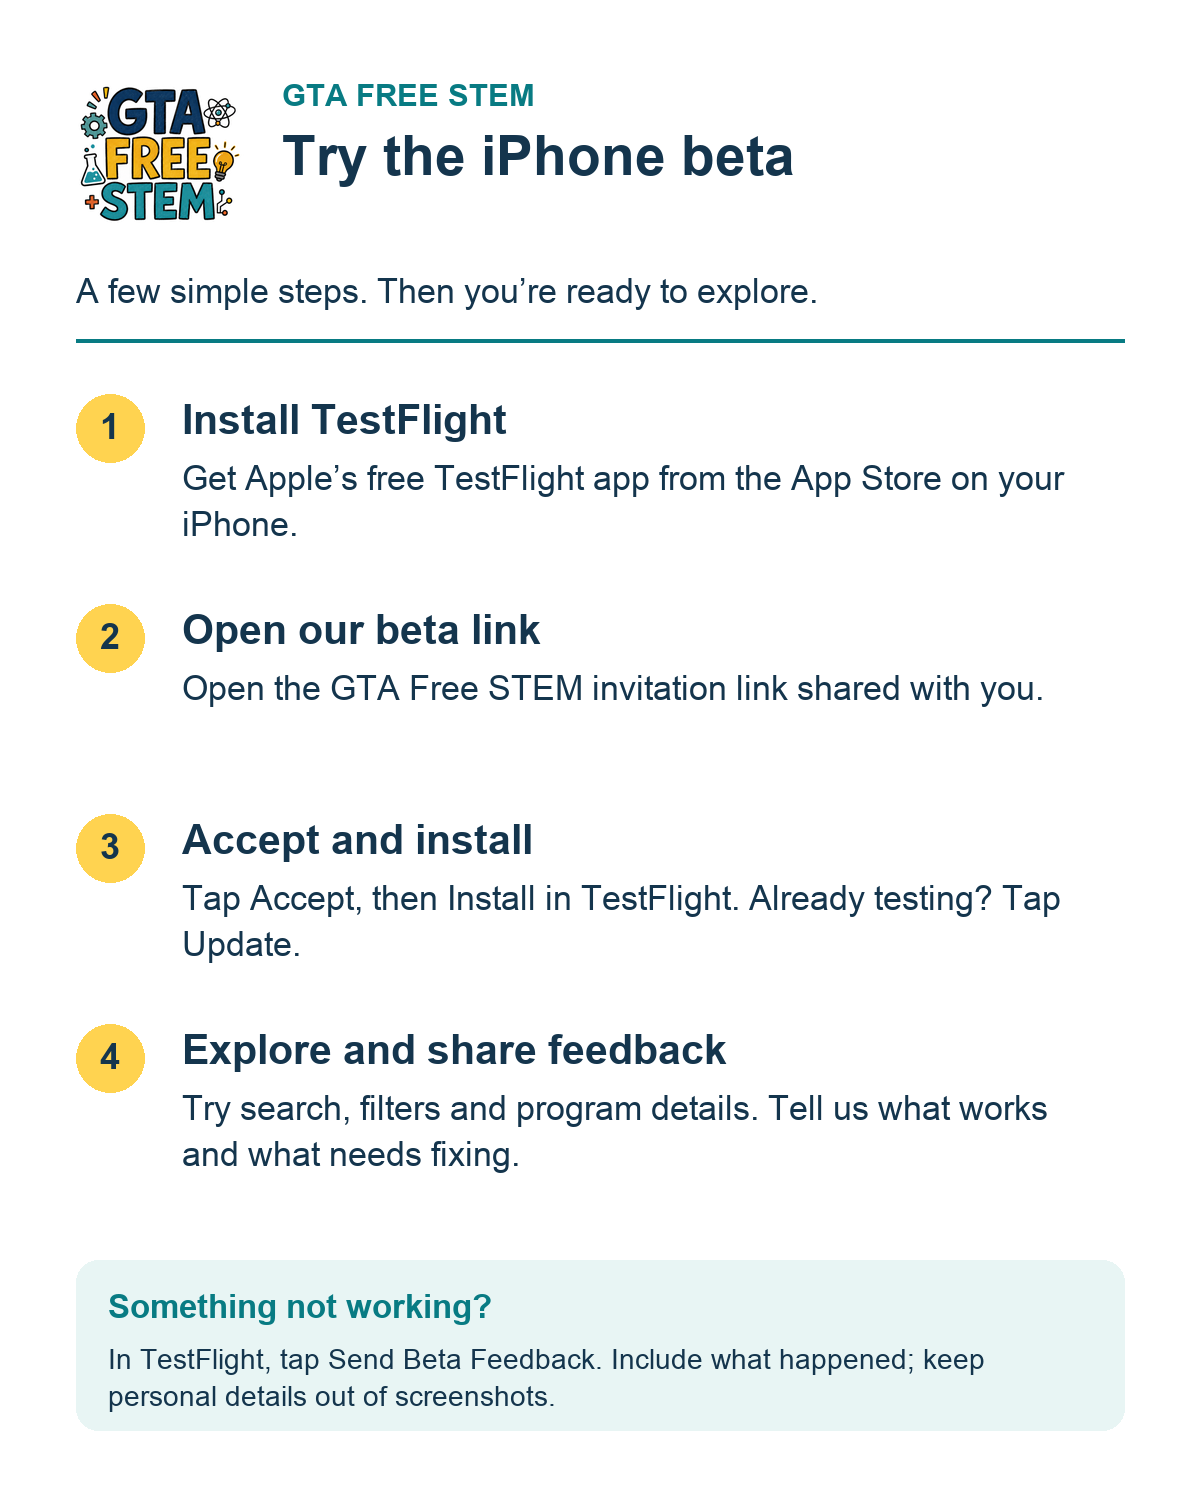
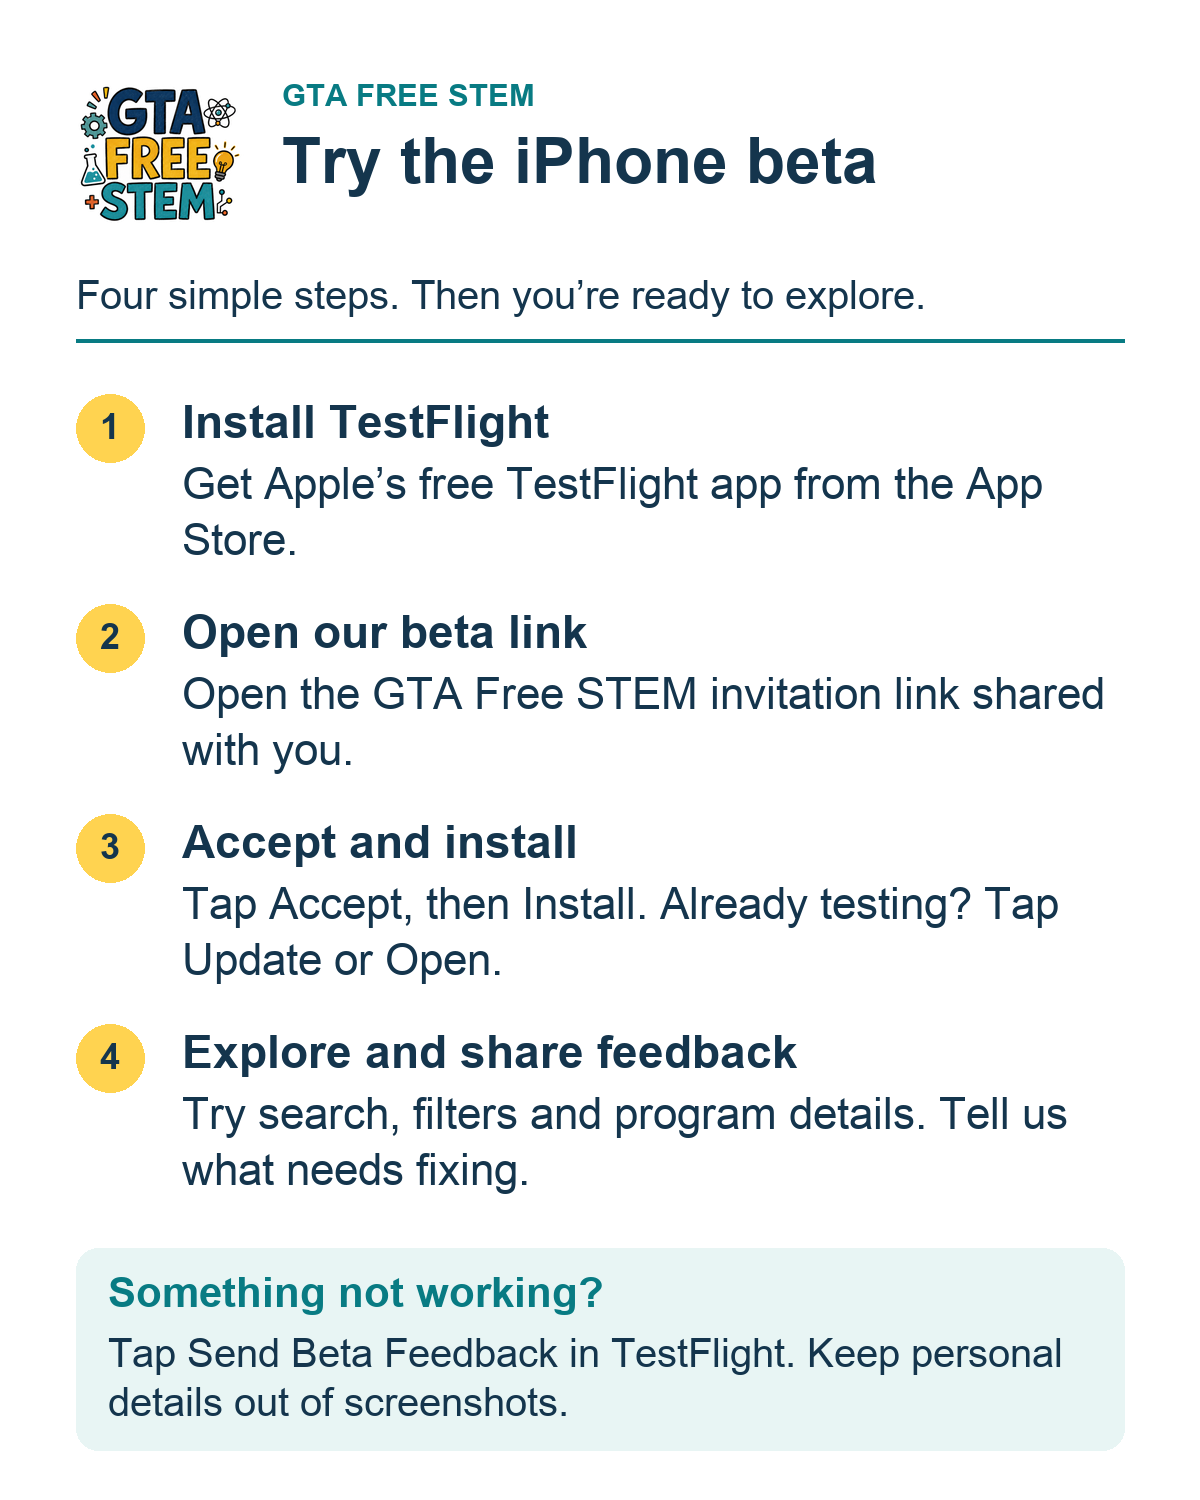
Show Community focus early and improve the phone installation guide
Move the existing three community-focused program filters above saved filters and support options, preserving their values, handlers and translations. Keep advanced school and distance options in More filters. Include the final larger-text universal TestFlight guide. No native listing data or invitation state changes.

diff --git a/components/OpportunityExplorer.tsx b/components/OpportunityExplorer.tsx
@@ -394,6 +394,7 @@ export function OpportunityExplorer({ supportPresetsEnabled = false, language, i
           </form>
         </aside> : <aside id="oe-filters" className={`oe-filters${filterOpen ? " oe-filters-open" : ""}`} aria-label={t(language, "filters")}>
           <div className="oe-filter-heading"><h3>{t(language, "filters")}</h3><button data-science-press type="button" onClick={clearFilters}>{t(language, "clearFilters")}</button></div>
+          <fieldset className="oe-community-filters"><legend>{t(language, "equity")}</legend>{toggles.slice(0, 3).map(([key, label]) => <label key={key} className="oe-check"><input type="checkbox" checked={filters[key]} onChange={(event) => updateFilter(key, event.target.checked)} /><span>{t(language, label)}</span></label>)}</fieldset>
           {supportPresetsEnabled ? <><ScopedSavedFilters {...scoped} /><AccessibilityFilter value={support} onChange={setSupport} />{supportError && <p role="alert" lang="en">{supportError}</p>}<button type="button" className="soft-button oe-clear-support" onClick={clearSupport} lang="en">Clear support filters</button></> : <>
           <section className="oe-named-filters" aria-labelledby="saved-filter-heading" lang="en">
             <h4 id="saved-filter-heading"><GtaArtwork role="saved" />Saved filters</h4>
@@ -411,7 +412,6 @@ export function OpportunityExplorer({ supportPresetsEnabled = false, language, i
           <div className="oe-field"><label htmlFor="oe-city">{t(language, "city")}</label><select id="oe-city" value={filters.city} onChange={(event) => updateFilter("city", event.target.value)}><option value="">{t(language, "allCities")}</option>{cityOptions.map((city) => <option key={city}>{city}</option>)}</select></div>
           <div className="oe-field"><label htmlFor="oe-age">{t(language, "age")}</label><input id="oe-age" type="number" min="0" max="99" step="any" inputMode="decimal" aria-describedby="oe-age-help" value={filters.age} onChange={(event) => updateFilter("age", event.target.value)} placeholder={t(language, "any")} /><p className="oe-hint" id="oe-age-help" lang="en">Age in years; 0.5 means 6 months.</p></div>
           <details className="oe-more-filters"><summary data-science-press>{t(language, "showFilters")}<ChevronDown size={17} aria-hidden="true" /></summary><div>
-            <fieldset><legend>{t(language, "equity")}</legend>{toggles.slice(0, 3).map(([key, label]) => <label key={key} className="oe-check"><input type="checkbox" checked={filters[key]} onChange={(event) => updateFilter(key, event.target.checked)} /><span>{t(language, label)}</span></label>)}</fieldset>
             <fieldset><legend>{t(language, "highSchool")}</legend>{toggles.slice(3).map(([key, label]) => <label key={key} className="oe-check"><input type="checkbox" checked={filters[key]} onChange={(event) => updateFilter(key, event.target.checked)} /><span>{t(language, label)}</span></label>)}</fieldset>
             <fieldset><legend>{t(language, "distance")}</legend><div className="oe-field"><label htmlFor="oe-postal">{t(language, "postal")}</label><input id="oe-postal" type="text" value={filters.postalCode} onChange={(event) => setFilters((current) => ({ ...current, postalCode: event.target.value.toUpperCase(), nearMe: false }))} placeholder="M5T" maxLength={7} autoComplete="postal-code" aria-describedby="oe-postal-help" /></div><p className="oe-hint" id="oe-postal-help" lang="en">Enter the first 3 characters. Approximate distance from supported GTA postal areas.</p>{filters.postalCode.length >= 3 && !location && <p className="oe-inline-notice" role="status" lang="en">This postal area is not in our distance lookup. Choose a city instead.</p>}<button data-science-press className="oe-location-button" type="button" onClick={useLocation} disabled={locating}><LocateFixed size={16} aria-hidden="true" />{locating ? <span lang="en">Finding your location…</span> : t(language, "nearMe")}</button>{locationNotice && <p className="oe-inline-notice" role="status" lang="en">{locationNotice}</p>}<div className="oe-field"><label htmlFor="oe-distance">{t(language, "distance")}</label><select id="oe-distance" value={filters.distanceKm} onChange={(event) => updateFilter("distanceKm", Number(event.target.value))}>{[5, 10, 25, 50, 100].map((distance) => <option value={distance} key={distance} lang="en">Within {distance} km</option>)}</select></div></fieldset>
           </div></details>

diff --git a/components/OpportunityExplorer.css b/components/OpportunityExplorer.css
@@ -346,3 +346,5 @@
 :root[data-theme="dark"] .oe-interest-option:nth-of-type(3) .oe-interest-icon { background: #5a4c16; color: #ffe486; }
 :root[data-theme="dark"] :is(.oe-primary, .oe-map-marker) { color: var(--bg); }
 @media (prefers-reduced-motion: reduce) { .oe-card:hover { transform: none; } }
+.oe-filters .oe-community-filters { margin-block: 0 24px; padding-block-end: 20px; border-block-end: 1px solid var(--line); }
+.oe-filters .oe-community-filters legend { font-size: 16px; font-weight: 800; }
